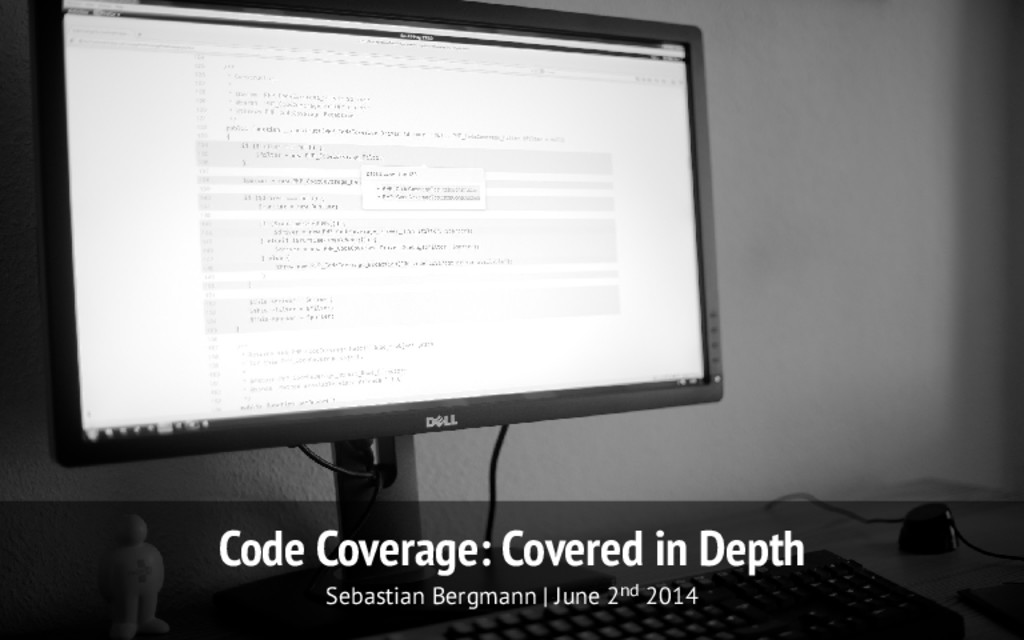
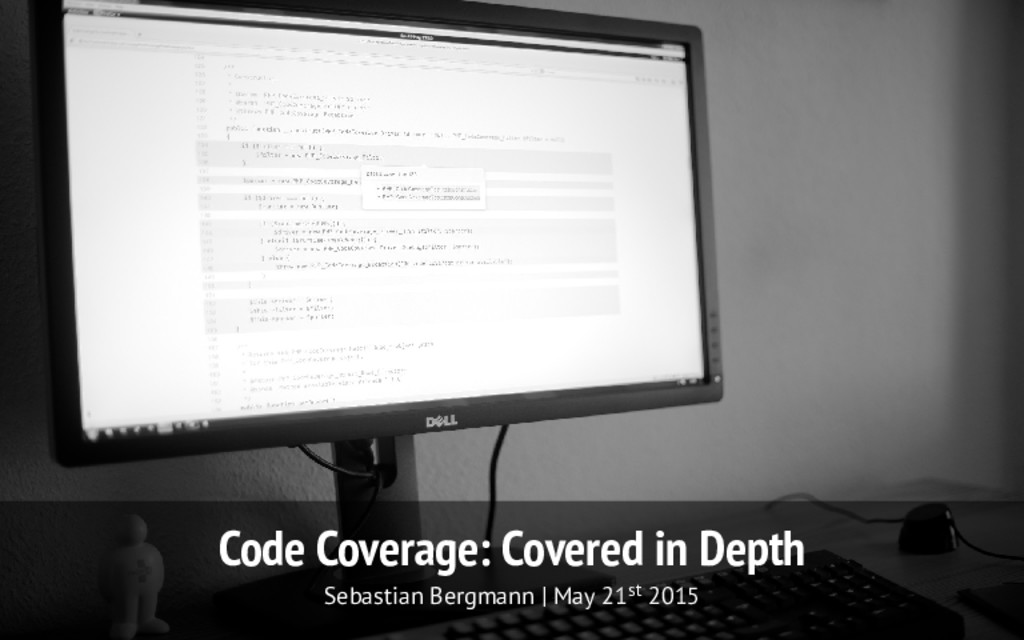
Update presentations

diff --git a/public/presentations.html b/public/presentations.html
@@ -56,10 +56,10 @@
    </div>
    <div class="row"><div class="col-md-4"><h3>The Wrong End of the Stick</h3></div><div class="col-md-4"><h3>Be Nice to Future You:<br/> Write Unit Tests With PHPUnit</h3></div><div class="col-md-4"><h3>Unit Testing</h3></div></div>
    <div class="row"><div class="col-md-4"><h4>by Sebastian Bergmann</h4></div><div class="col-md-4"><h4>by John Norton</h4></div><div class="col-md-4"><h4>by Jeremy Lindblom</h4></div></div>
-   <div class="row"><div class="col-md-4"><p><a href="http://thephp.cc/dates/2013/international-php-conference-spring-edition/the-wrong-end-of-the-stick"><img class="img-responsive img-rounded" alt="Sebastian Bergmann: The Wrong End of the Stick" src="images/the-wrong-end-of-the-stick.jpg" /></a></p></div><div class="col-md-4"><p><a href="http://slides.com/johnnorton/be-nice-to-future-you-write-unit-tests-with-phpunit"><img class="img-responsive img-rounded" alt="John Norton: Be Nice to Future You: Write Unit Tests With PHPUnit" src="images/be-nice-to-future-you-write-unit-tests-with-phpunit.png" /></a></p></div><div class="col-md-4"><p><a href="https://speakerdeck.com/jeremeamia/unit-testing"><img class="img-responsive img-rounded" alt="Jeremy Lindblom: Unit Testing" src="https://speakerd.s3.amazonaws.com/presentations/1479e810855f01303f7e1231381a74fc/slide_0.jpg" /></a></p></div></div>
-   <div class="row"><div class="col-md-4"><h3>Why, What, and How:<br/> Testing in 2014</h3></div><div class="col-md-4"><h3>Code Coverage:<br/> Covered in Depth</h3></div><div class="col-md-4"><h3>Test{able|ing} Symfony 2 Applications</h3></div></div>
+   <div class="row"><div class="col-md-4"><p><a href="https://thephp.cc/dates/2013/international-php-conference-spring-edition/the-wrong-end-of-the-stick"><img class="img-responsive img-rounded" alt="Sebastian Bergmann: The Wrong End of the Stick" src="images/the-wrong-end-of-the-stick.jpg" /></a></p></div><div class="col-md-4"><p><a href="http://slides.com/johnnorton/be-nice-to-future-you-write-unit-tests-with-phpunit"><img class="img-responsive img-rounded" alt="John Norton: Be Nice to Future You: Write Unit Tests With PHPUnit" src="images/be-nice-to-future-you-write-unit-tests-with-phpunit.png" /></a></p></div><div class="col-md-4"><p><a href="https://speakerdeck.com/jeremeamia/unit-testing"><img class="img-responsive img-rounded" alt="Jeremy Lindblom: Unit Testing" src="https://speakerd.s3.amazonaws.com/presentations/1479e810855f01303f7e1231381a74fc/slide_0.jpg" /></a></p></div></div>
+   <div class="row"><div class="col-md-4"><h3>The Three Dimensions of Testing</h3></div><div class="col-md-4"><h3>Code Coverage:<br/> Covered in Depth</h3></div><div class="col-md-4"><h3>Test{able|ing} Symfony 2 Applications</h3></div></div>
    <div class="row"><div class="col-md-4"><h4>by Sebastian Bergmann</h4></div><div class="col-md-4"><h4>by Sebastian Bergmann</h4></div><div class="col-md-4"><h4>by Sebastian Bergmann</h4></div></div>
-   <div class="row"><div class="col-md-4"><p><a href="http://thephp.cc/dates/2014/international-php-conference-spring-edition/why-what-and-how-testing-in-2014"><img class="img-responsive img-rounded" alt="Sebastian Bergmann: Why, What, and How: Testing in 2014" src="images/why-what-and-how-testing-in-2014.jpg" /></a></p></div><div class="col-md-4"><p><a href="http://thephp.cc/dates/2014/international-php-conference-spring-edition/code-coverage-covered-in-depth"><img class="img-responsive img-rounded" alt="Sebastian Bergmann: Code Coverage: Covered in Depth" src="images/code-coverage-covered-in-depth.jpg" /></a></p></div><div class="col-md-4"><p><a href="http://thephp.cc/dates/2013/ez-publish-summer-camp/testable-symfony2-applications"><img class="img-responsive img-rounded" alt="Sebastian Bergmann: Test{able|ing} Symfony 2 Applications" src="images/testable-symfony2-applications.jpg" /></a></p></div></div>
+   <div class="row"><div class="col-md-4"><p><a href="https://thephp.cc/dates/2015/05/php-tek/the-three-dimensions-of-testing"><img class="img-responsive img-rounded" alt="Sebastian Bergmann: The Three Dimensions of Testing" src="images/the-three-dimensions-of-testing.jpg" /></a></p></div><div class="col-md-4"><p><a href="https://thephp.cc/dates/2015/05/php-tek/code-coverage-covered-in-depth"><img class="img-responsive img-rounded" alt="Sebastian Bergmann: Code Coverage: Covered in Depth" src="images/code-coverage-covered-in-depth.jpg" /></a></p></div><div class="col-md-4"><p><a href="https://thephp.cc/dates/2013/ez-publish-summer-camp/testable-symfony2-applications"><img class="img-responsive img-rounded" alt="Sebastian Bergmann: Test{able|ing} Symfony 2 Applications" src="images/testable-symfony2-applications.jpg" /></a></p></div></div>
    <hr>
    <div class="footer">
     <p>Copyright &copy; 2001-2015 Sebastian Bergmann.</p>
